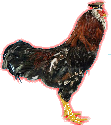
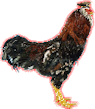
started work on great chicken weapon along with other changes

diff --git a/Content/Projectiles/GreatChickenFeatherFriendlyProjectile.cs b/Content/Projectiles/GreatChickenFeatherFriendlyProjectile.cs
@@ -1,0 +1,83 @@
+using Microsoft.Xna.Framework;
+using Microsoft.Xna.Framework.Graphics;
+using System;
+using Terraria;
+using Terraria.Audio;
+using Terraria.GameContent;
+using Terraria.ID;
+using Terraria.ModLoader;
+
+namespace Chickensubclass.Content.Projectiles
+{
+	public class GreatChickenFeatherProjectile : ModProjectile
+	{
+		public override void SetStaticDefaults() {
+			ProjectileID.Sets.TrailCacheLength[Projectile.type] = 5; // The length of old position to be recorded
+			ProjectileID.Sets.TrailingMode[Projectile.type] = 0; // The recording mode
+			ProjectileID.Sets.HeldProjDoesNotUsePlayerGfxOffY[Type] = false;
+		}
+
+		public override void SetDefaults() {
+			Projectile.width = 14; // The width of projectile hitbox
+			Projectile.height = 14; // The height of projectile hitbox
+			Projectile.aiStyle = 1; // The ai style of the projectile, please reference the source code of Terraria
+			Projectile.friendly = false; // Can the projectile deal damage to enemies?
+			Projectile.hostile = true; // Can the projectile deal damage to the player?
+			Projectile.penetrate = 1; // How many monsters the projectile can penetrate. (OnTileCollide below also decrements penetrate for bounces as well)
+			Projectile.timeLeft = 300; // The live time for the projectile (60 = 1 second, so 600 is 10 seconds)
+			Projectile.alpha = 0; // The transparency of the projectile, 255 for completely transparent. (aiStyle 1 quickly fades the projectile in) Make sure to delete this if you aren't using an aiStyle that fades in. You'll wonder why your projectile is invisible.
+			Projectile.light = 0f; // How much light emit around the projectile
+			Projectile.ignoreWater = true; // Does the projectile's speed be influenced by water?
+			Projectile.tileCollide = true; // Can the projectile collide with tiles?
+			Projectile.extraUpdates = 1; // Set to above 0 if you want the projectile to update multiple time in a frame
+
+			AIType = ProjectileID.Bullet; // Act exactly like default Bullet
+		}
+
+		public override bool OnTileCollide(Vector2 oldVelocity) {
+			// If collide with tile, reduce the penetrate.
+			// So the projectile can reflect at most 5 times
+			Projectile.penetrate--;
+			if (Projectile.penetrate <= 0) {
+				Projectile.Kill();
+			}
+			else {
+				Collision.HitTiles(Projectile.position, Projectile.velocity, Projectile.width, Projectile.height);
+				SoundEngine.PlaySound(SoundID.Item10, Projectile.position);
+
+				// If the projectile hits the left or right side of the tile, reverse the X velocity
+				if (Math.Abs(Projectile.velocity.X - oldVelocity.X) > float.Epsilon) {
+					Projectile.velocity.X = -oldVelocity.X;
+				}
+
+				// If the projectile hits the top or bottom side of the tile, reverse the Y velocity
+				if (Math.Abs(Projectile.velocity.Y - oldVelocity.Y) > float.Epsilon) {
+					Projectile.velocity.Y = -oldVelocity.Y;
+				}
+			}
+
+			return false;
+		}
+
+		public override bool PreDraw(ref Color lightColor) {
+			// Draws an afterimage trail. See https://github.com/tModLoader/tModLoader/wiki/Basic-Projectile#afterimage-trail for more information.
+
+			Texture2D texture = TextureAssets.Projectile[Type].Value;
+
+			Vector2 drawOrigin = new Vector2(texture.Width * 0.5f, Projectile.height * 0.5f);
+			for (int k = Projectile.oldPos.Length - 1; k > 0; k--) {
+				Vector2 drawPos = (Projectile.oldPos[k] - Main.screenPosition) + drawOrigin + new Vector2(0f, Projectile.gfxOffY);
+				Color color = Projectile.GetAlpha(lightColor) * ((Projectile.oldPos.Length - k) / (float)Projectile.oldPos.Length);
+				Main.EntitySpriteDraw(texture, drawPos, null, color, Projectile.rotation, drawOrigin, Projectile.scale, SpriteEffects.None, 0);
+			}
+
+			return true;
+		}
+
+		public override void OnKill(int timeLeft) {
+			// This code and the similar code above in OnTileCollide spawn dust from the tiles collided with. SoundID.Item10 is the bounce sound you hear.
+			Collision.HitTiles(Projectile.position + Projectile.velocity, Projectile.velocity, Projectile.width, Projectile.height);
+			SoundEngine.PlaySound(SoundID.Item10, Projectile.position);
+		}
+	}
+}

diff --git a/Content/Items/GreatChickenWeapon.cs b/Content/Items/GreatChickenWeapon.cs
@@ -1,0 +1,43 @@
+using System; //what sources the code uses, these sources allow for calling of terraria functions, existing system functions and microsoft vector functions (probably more)
+using Microsoft.Xna.Framework;
+using Microsoft.Xna.Framework.Graphics;
+using Terraria;
+using Terraria.DataStructures;
+using Terraria.ID;
+using Terraria.ModLoader;
+using Chickensubclass.Content.Projectiles; // the piece of code i found out i needed to type to use a custom projectile
+using Terraria.GameContent;
+
+
+namespace Chickensubclass.Content.Items
+{ 
+	// This is a basic item template.
+	// Please see tModLoader's ExampleMod for every other example:
+	// https://github.com/tModLoader/tModLoader/tree/stable/ExampleMod
+	public class GreatChickenWeapon : ModItem
+	{
+		public override void SetStaticDefaults()
+		{
+			Main.RegisterItemAnimation(Item.type, new DrawAnimationVertical(10, 4, true));
+		}
+		// The Display Name and Tooltip of this item can be edited in the 'Localization/en-US_Mods.Chickensubclass.hjson' file.
+		public override void SetDefaults()
+		{
+			Item.damage = 65;
+			Item.DamageType = DamageClass.Melee;
+			Item.width = 87;
+			Item.height = 63;
+			Item.useTime = 40;
+			Item.useAnimation = 20;
+			Item.useStyle = ItemUseStyleID.Swing;
+			Item.knockBack = 5;
+			Item.value = Item.sellPrice(0, 1, 35, 0);
+			Item.rare = ItemRarityID.Pink;
+			Item.UseSound = SoundID.Item1;
+			Item.autoReuse = true;
+			Item.useTurn = true;
+			Item.shoot = ModContent.ProjectileType<ReaperChickenFeatherProjectile>();
+			Item.shootSpeed = 0f;
+		}
+	}
+}

diff --git a/Content/Projectiles/GreatChickenFeatherProjectile.cs b/Content/Projectiles/GreatChickenFeatherProjectile.cs
@@ -9,7 +9,7 @@ using Terraria.ModLoader;
 
 namespace Chickensubclass.Content.Projectiles
 {
-	public class GreatChickenFeatherProjectile : ModProjectile
+	public class GreatChickenFeatherFriendlyProjectile : ModProjectile
 	{
 		public override void SetStaticDefaults() {
 			ProjectileID.Sets.TrailCacheLength[Projectile.type] = 5; // The length of old position to be recorded
@@ -21,8 +21,8 @@ namespace Chickensubclass.Content.Projectiles
 			Projectile.width = 14; // The width of projectile hitbox
 			Projectile.height = 14; // The height of projectile hitbox
 			Projectile.aiStyle = 1; // The ai style of the projectile, please reference the source code of Terraria
-			Projectile.friendly = false; // Can the projectile deal damage to enemies?
-			Projectile.hostile = true; // Can the projectile deal damage to the player?
+			Projectile.friendly = true; // Can the projectile deal damage to enemies?
+			Projectile.hostile = false; // Can the projectile deal damage to the player?
 			Projectile.penetrate = 1; // How many monsters the projectile can penetrate. (OnTileCollide below also decrements penetrate for bounces as well)
 			Projectile.timeLeft = 300; // The live time for the projectile (60 = 1 second, so 600 is 10 seconds)
 			Projectile.alpha = 0; // The transparency of the projectile, 255 for completely transparent. (aiStyle 1 quickly fades the projectile in) Make sure to delete this if you aren't using an aiStyle that fades in. You'll wonder why your projectile is invisible.

diff --git a/Content/Items/LowPolyChicken.cs b/Content/Items/LowPolyChicken.cs
@@ -14,6 +14,7 @@ namespace Chickensubclass.Content.Items
 		public override void SetStaticDefaults() {
 			// Registers a vertical animation with 4 frames and each one will last 5 ticks (1/12 second)
 			Main.RegisterItemAnimation(Item.type, new DrawAnimationVertical(5, 20));
+			ItemID.Sets.AnimatesAsSoul[Item.type] = true;
 		}
 
 	

diff --git a/Content/Items/CommieChicken.cs b/Content/Items/CommieChicken.cs
@@ -20,8 +20,8 @@ namespace Chickensubclass.Content.Items
 		{
 			Item.damage = 56;
 			Item.DamageType = DamageClass.Melee;
-			Item.width = 111;
-			Item.height = 125;
+			Item.width = 95;
+			Item.height = 109;
 			Item.useTime = 28;
 			Item.useAnimation = 28;
 			Item.useStyle = ItemUseStyleID.Swing;

diff --git a/Content/Items/GreedyChicken.cs b/Content/Items/GreedyChicken.cs
@@ -20,8 +20,8 @@ namespace Chickensubclass.Content.Items
 		{
 			Item.damage = 56;
 			Item.DamageType = DamageClass.Melee;
-			Item.width = 55;
-			Item.height = 60;
+			Item.width = 90;
+			Item.height = 96;
 			Item.useTime = 20;
 			Item.useAnimation = 20;
 			Item.useStyle = ItemUseStyleID.Swing;
